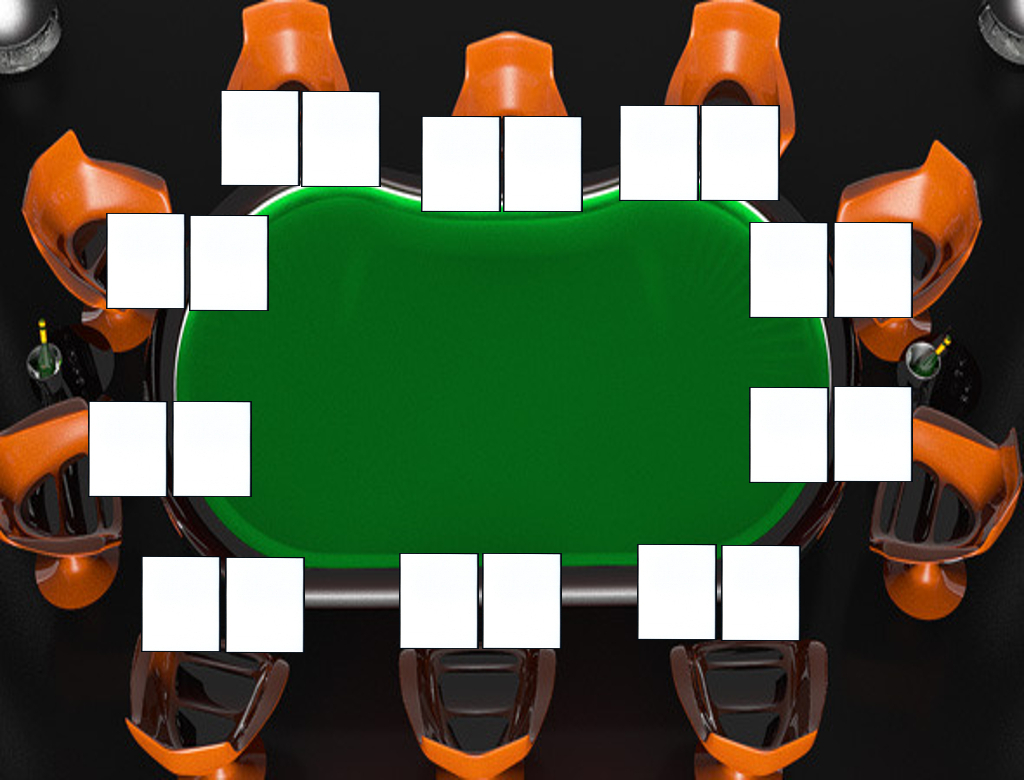
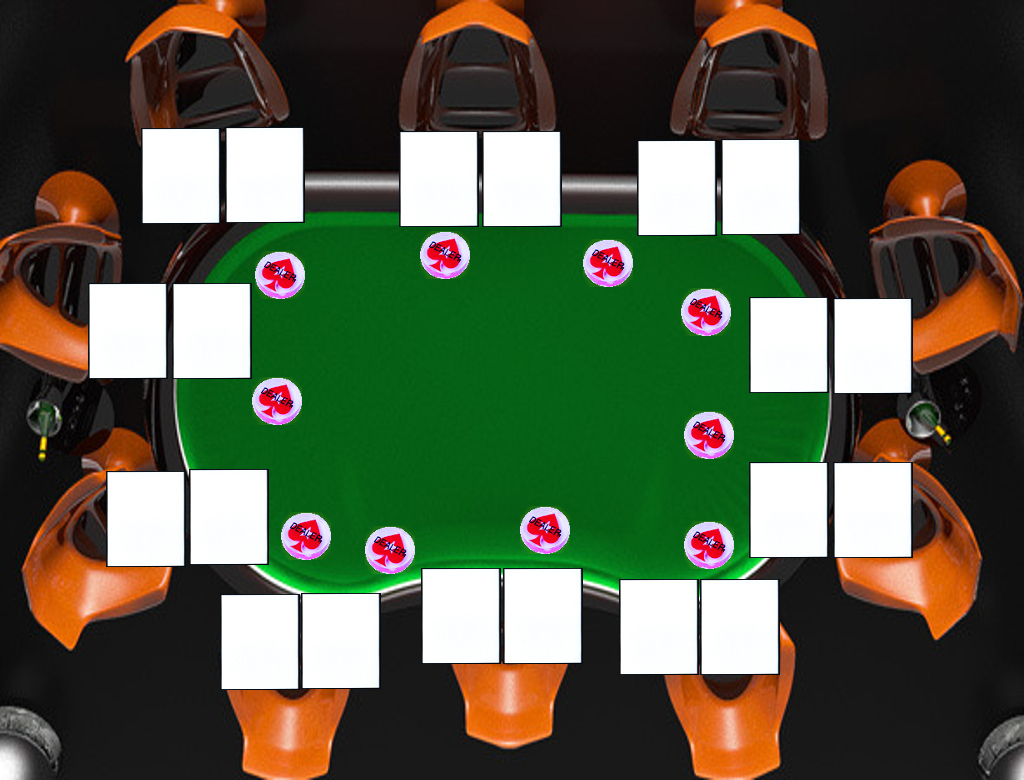
BigBlind, DealerButton and SmallBlind with pictures done.

diff --git a/core/src/com/tp/holdem/GameRenderer.java b/core/src/com/tp/holdem/GameRenderer.java
@@ -29,11 +29,18 @@ public class GameRenderer {
     private List<Card> cardsOnTable;
     private Texture cards;
     private int yourNumber=0;
-    private TextureRegion reverse;
+    private TextureRegion reverse, bigBlind, smallBlind, dealer;
     private int[] positionX = {400, 141, 90, 105, 220, 420, 620, 750, 750, 637};
     private int[] positionY = {134, 140, 295, 460, 585, 565, 595, 465, 285, 128};
+    private int[] dealerPositionX = {415, 255, 253, 280, 363, 517, 682, 682, 678, 582};
+    private int[] dealerPositionY = {232, 253, 382, 498, 526, 507, 526, 412, 291, 241};
+    private int[] blindPositionX = {480, 307, 253, 274, 314, 457, 625, 679, 696, 640};
+    private int[] blindPositionY = {241, 231, 330, 450, 553, 517, 534, 468, 345, 259};
     public GameRenderer(GameWorld world){
     	bg = new TextureRegion(new Texture("data/pokerTable.jpg"), 0, 0, 1024, 780);
+    	dealer = new TextureRegion(new Texture("data/dealer.png"), 0, 0, 50, 48);
+    	smallBlind = new TextureRegion(new Texture("data/smallBlind.png"), 0, 0, 35, 32);
+    	bigBlind = new TextureRegion(new Texture("data/bigBlind.png"), 0, 0, 36, 34);
     	myWorld = world;
     	cam = new OrthographicCamera();
         cam.setToOrtho(false, 1024, 780);
@@ -73,6 +80,15 @@ public class GameRenderer {
 	        		batcher.draw(reverse, positionX[i]+15, positionY[i]+2);
 	        		batcher.draw(reverse, positionX[i]+82+15, positionY[i]+2);
 	        	}
+	        	if(players.get(i).isHasDealerButton()){
+	        		batcher.draw(dealer, dealerPositionX[i], dealerPositionY[i]);
+	        	}
+	        	if(players.get(i).isHasSmallBlind()){
+	        		batcher.draw(smallBlind, blindPositionX[i], blindPositionY[i]);
+	        	}
+	        	else if(players.get(i).isHasBigBlind()){
+	        		batcher.draw(bigBlind, blindPositionX[i], blindPositionY[i]);
+	        	}
 	        }
         }
         if(cardsOnTable!=null)
@@ -80,7 +96,7 @@ public class GameRenderer {
         	for(int i=0;i<cardsOnTable.size();i++)
         	{
         		findCurrentCardTexture(cardsOnTable.get(i));
-        		batcher.draw(currentCardTexture, 315+i*82,325);
+        		batcher.draw(currentCardTexture, 315+i*82,360);
         	}
         }
         batcher.end();

diff --git a/core/src/com/tp/holdem/KryoServer.java b/core/src/com/tp/holdem/KryoServer.java
@@ -20,9 +20,9 @@ public class KryoServer implements Runnable {
 	private int counter = 0;
 	private int numPlayers = 0;
 	private int turnPlayer = 0;
-	private boolean flopTime = false;
-	private boolean turnTime = false;
-	private boolean riverTime = false;
+	private boolean flopTime = true;
+	private boolean turnTime = true;
+	private boolean riverTime = true;
 	private Deck deck = null;
 	private Table table = null;
 	private int smallBlindAmount = 20;
@@ -69,7 +69,9 @@ public class KryoServer implements Runnable {
   			  }
           }
           public synchronized void disconnected(Connection con){
-        	  numPlayers--;
+        	  for(Player player : players){
+        		  if(player.getConnectionId()==con.getID()) player.setInGame(false);
+        	  }
           }
       });
       

diff --git a/core/src/com/tp/holdem/Player.java b/core/src/com/tp/holdem/Player.java
@@ -16,6 +16,7 @@ public class Player {
   	private int chipsAmount = 0;
   	private boolean isFolded = false;
   	private int connectionId;
+  	private boolean inGame = true;
   	
   	public Player(){
   		
@@ -117,6 +118,10 @@ public class Player {
 
 	public void setHand(List<Card> hand) {
 		this.hand = hand;
+	}
+
+	public void setInGame(boolean inGame) {
+		this.inGame = inGame;
 	}
 
 	

diff --git a/core/src/com/tp/holdem/KryoClient.java b/core/src/com/tp/holdem/KryoClient.java
@@ -49,7 +49,6 @@ public class KryoClient {
             		  }
             		  if(response.getTAG().equals("W"))
             		  {
-            			  System.out.println("W from server");
             			  changes("W", response);
             		  }
             	  }
